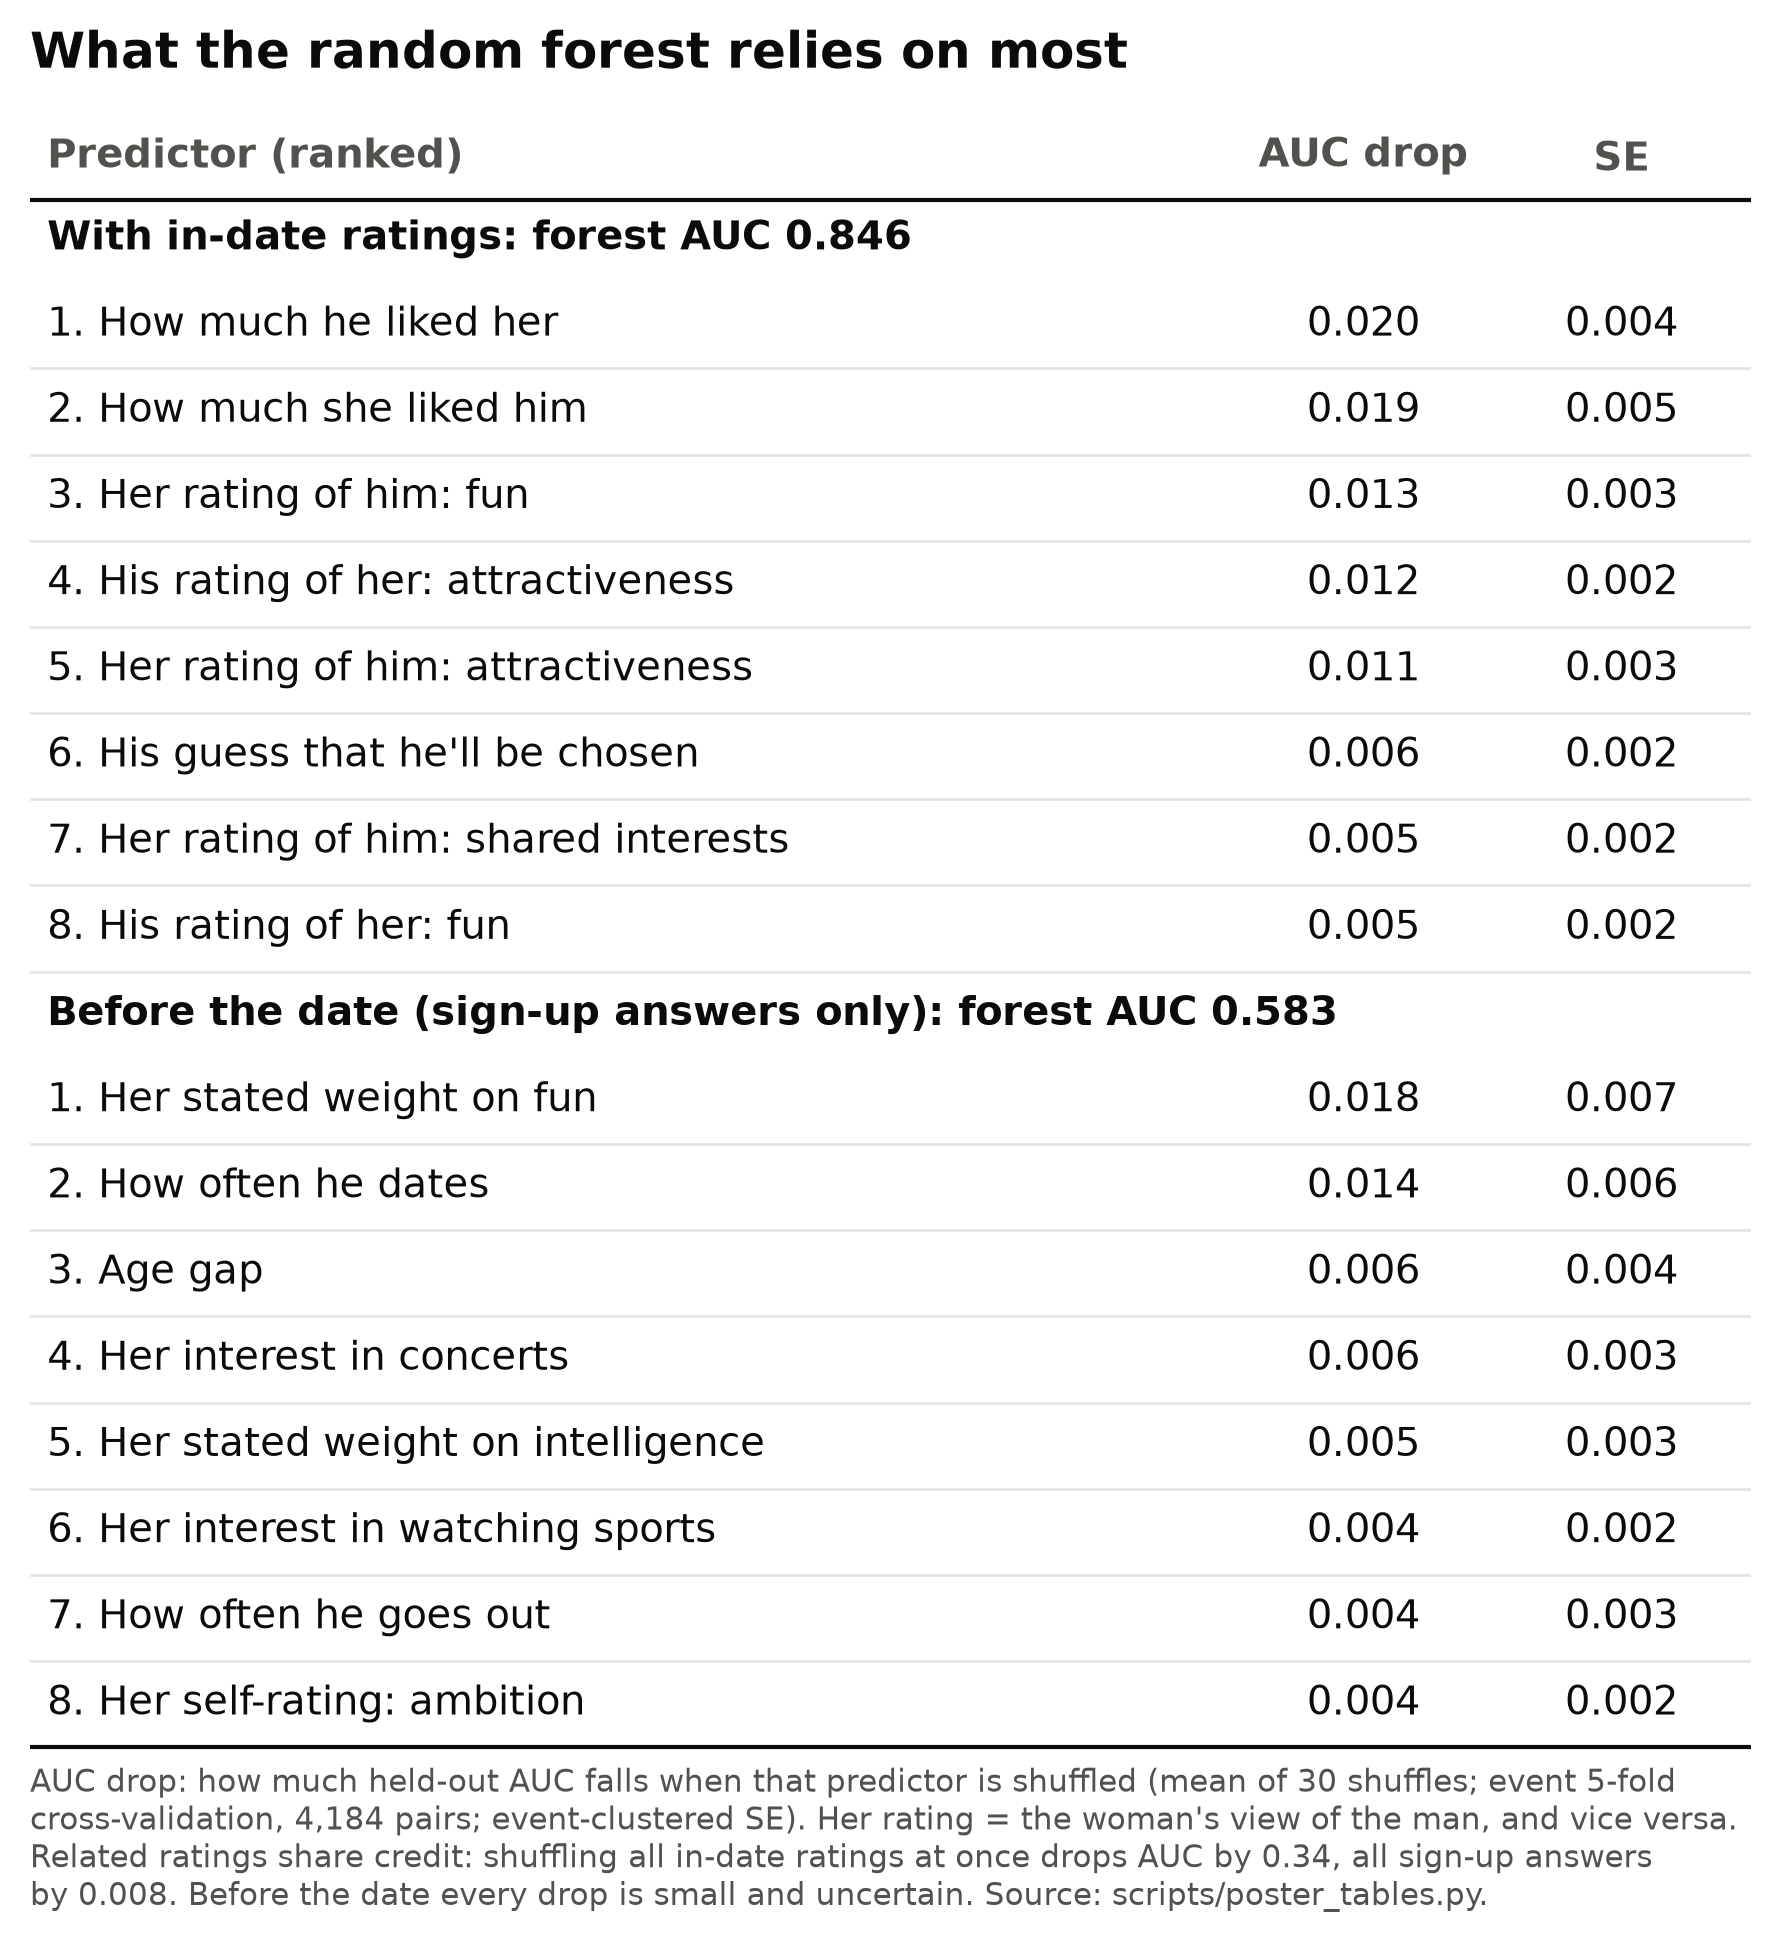
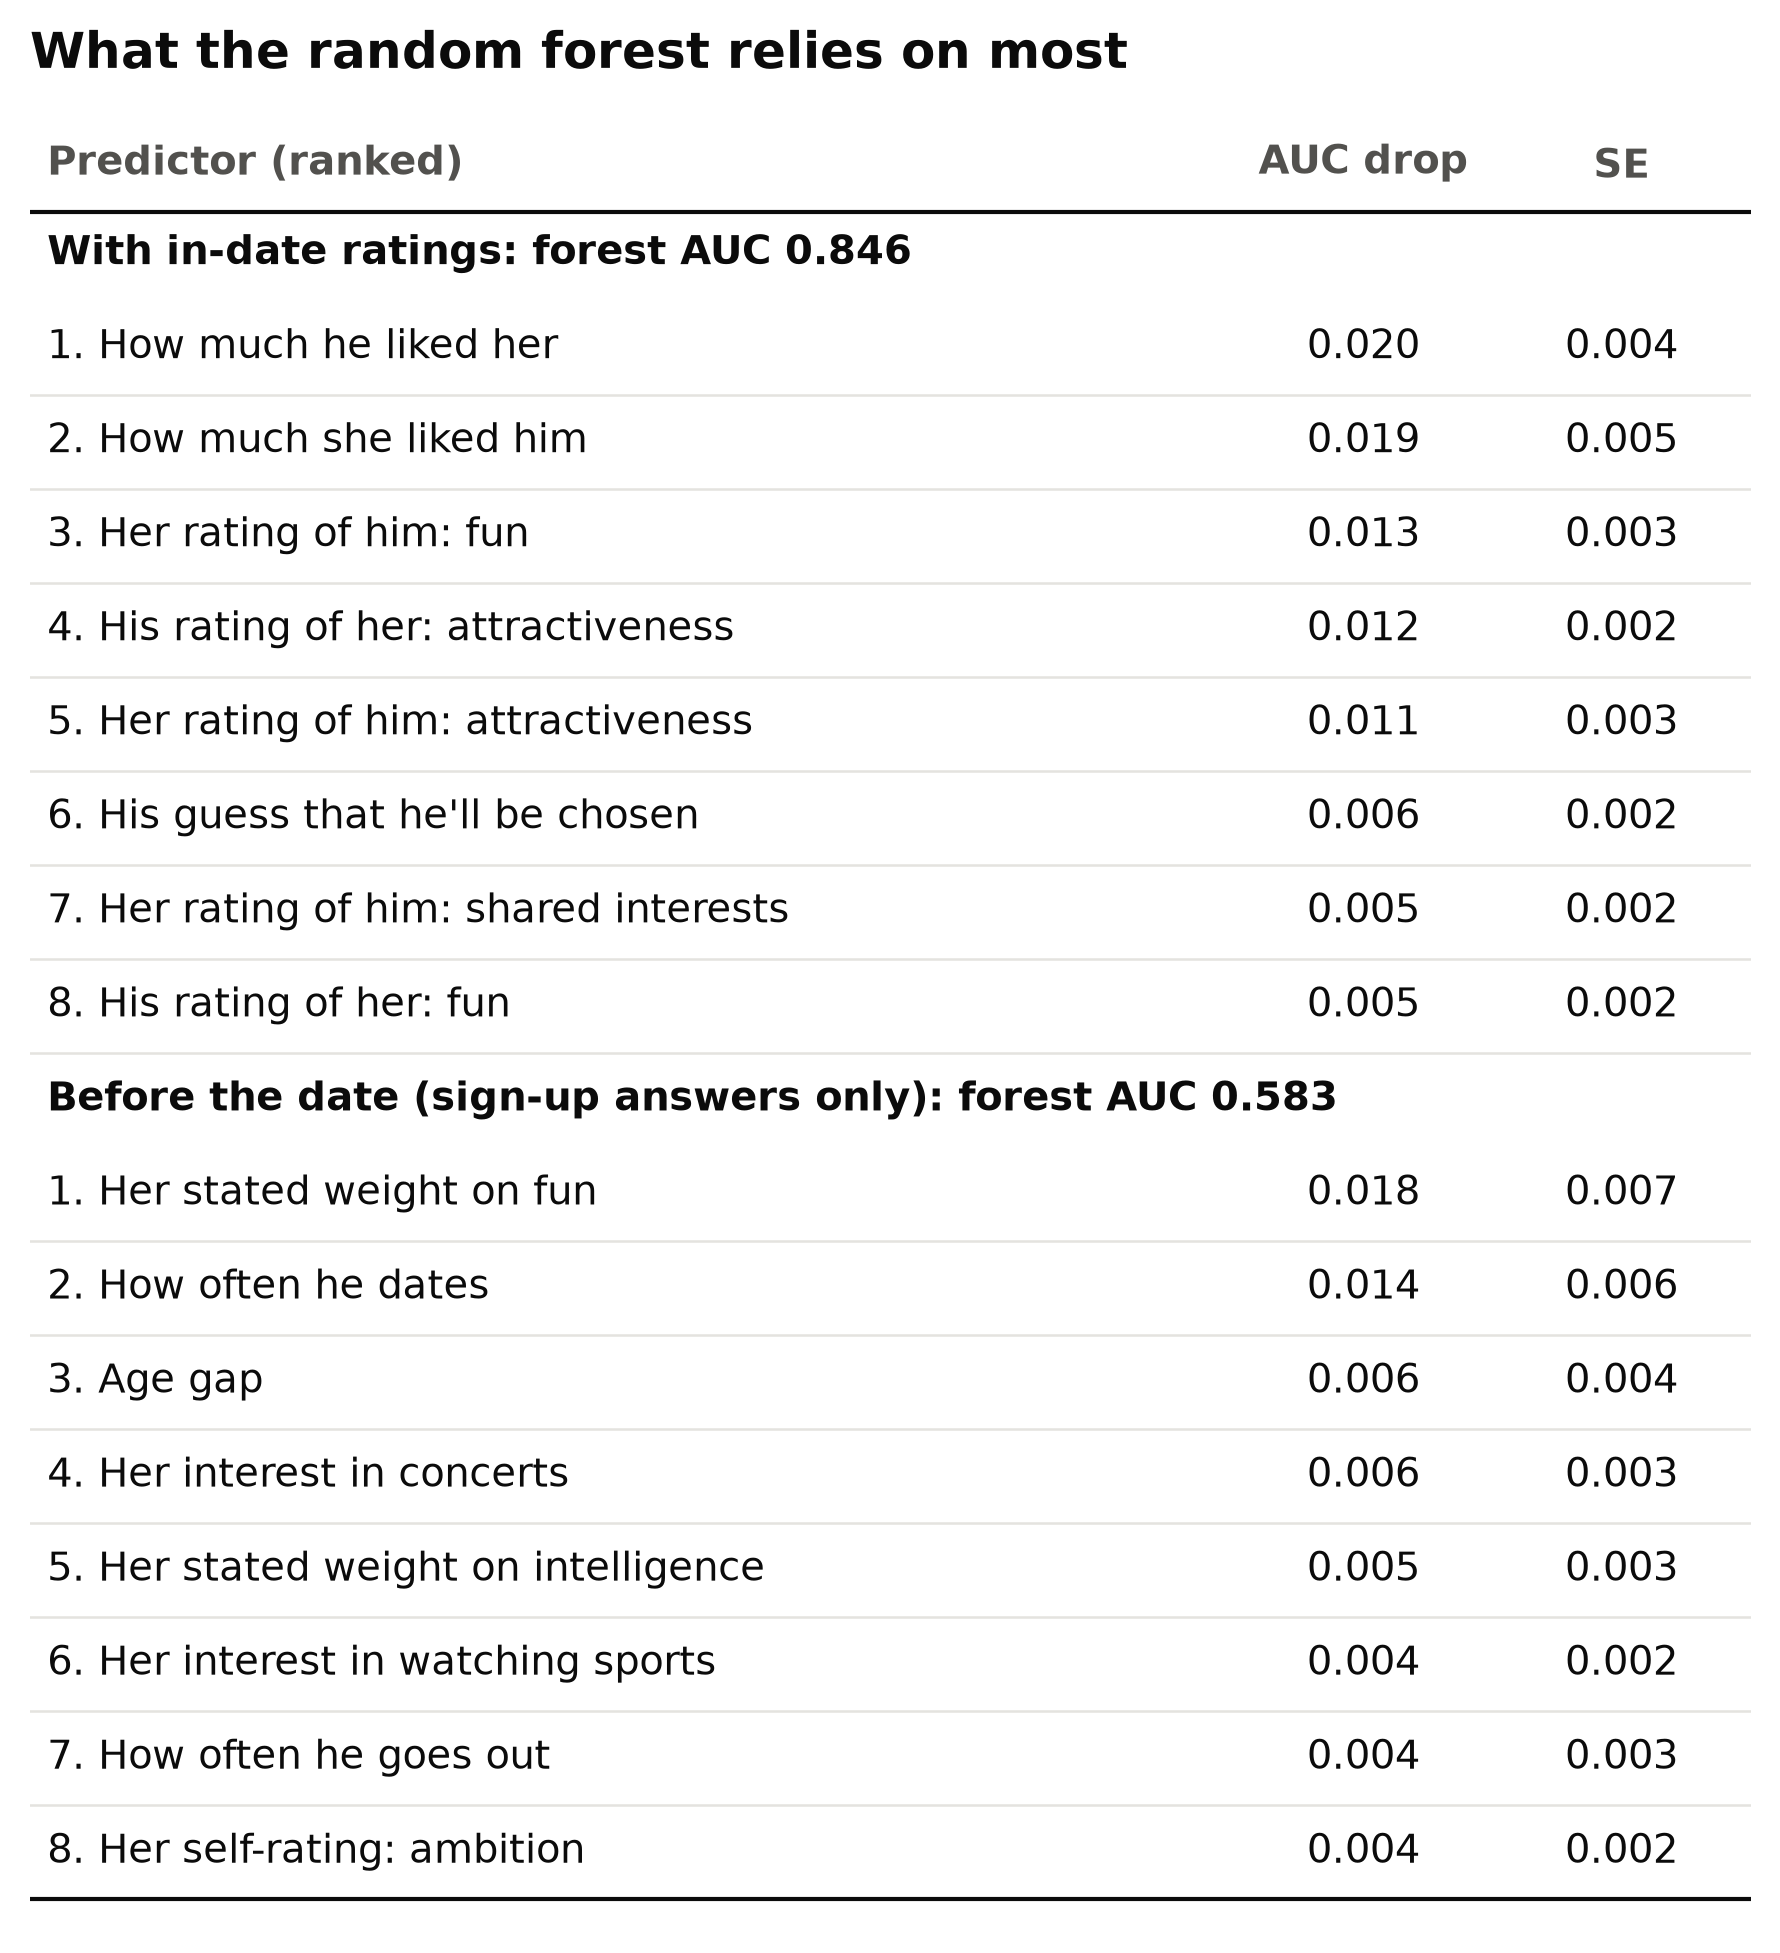
Poster tables: predictor table image without the footnote, for the slides

Changed region(s): [[0.0, 0.0625, 0.9888, 0.9995]]

diff --git a/scripts/poster_tables.py b/scripts/poster_tables.py
@@ -57,15 +57,9 @@ def predictor_table(top=8):
         cells += [[f"{i}. {r.label}", f"{r.auc_drop:.3f}", f"{r.auc_drop_se:.3f}"] for i, r in enumerate(d.itertuples(), 1)]
     pd.concat(out).to_csv(RES / "poster_tables_predictors.csv", index=False)
     heads = [i for i, c in enumerate(cells) if c[1] == ""]
-    g = imp[imp.kind == "group"].set_index(["feature_set", "predictor"]).auc_drop
     draw(cells, ["Predictor (ranked)", "AUC drop", "SE"], "poster_tables_predictors",
-         "What the random forest relies on most",
-         "AUC drop: how much held-out AUC falls when that predictor is shuffled (mean of 30 shuffles; event 5-fold\n"
-         "cross-validation, 4,184 pairs; event-clustered SE). Her rating = the woman's view of the man, and vice versa.\n"
-         f"Related ratings share credit: shuffling all in-date ratings at once drops AUC by "
-         f"{g['pre+date', 'GROUP: all in-date ratings']:.2f}, all sign-up answers\n"
-         f"by {g['pre+date', 'GROUP: all sign-up answers']:.3f}. Before the date every drop is small and uncertain. "
-         "Source: scripts/poster_tables.py.", section_rows=heads, widths=(0.70, 0.15, 0.15))
+         "What the random forest relies on most", "",    # no footnote: the slide and poster explain the AUC drop
+         section_rows=heads, widths=(0.70, 0.15, 0.15))
 
 
 def draw(cells, header, name, title, note, highlight=None, section_rows=(), widths=(0.5, 0.25, 0.25)):
